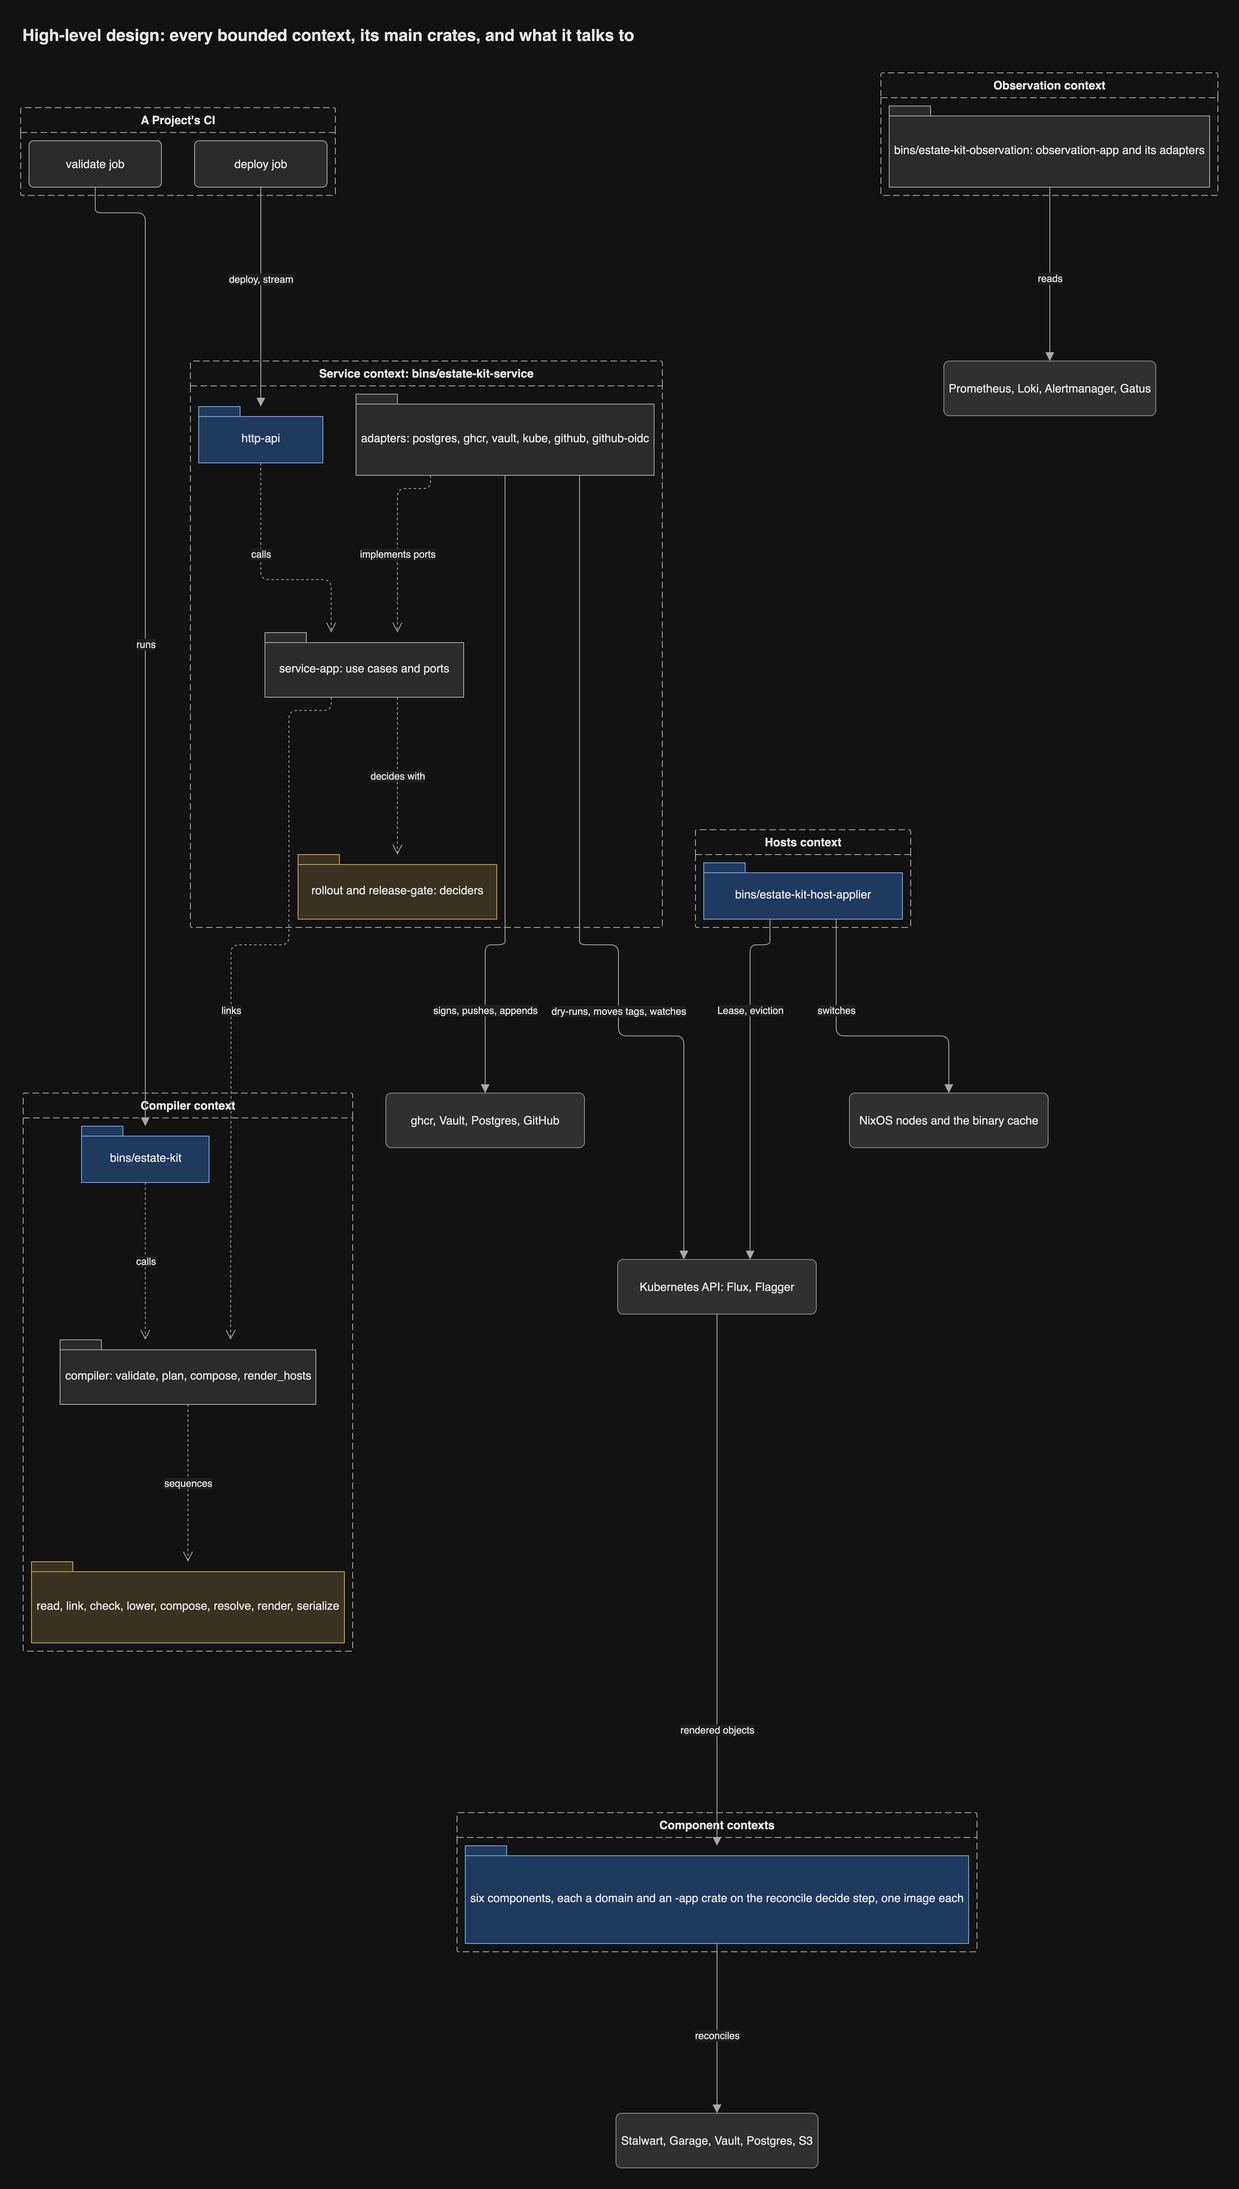
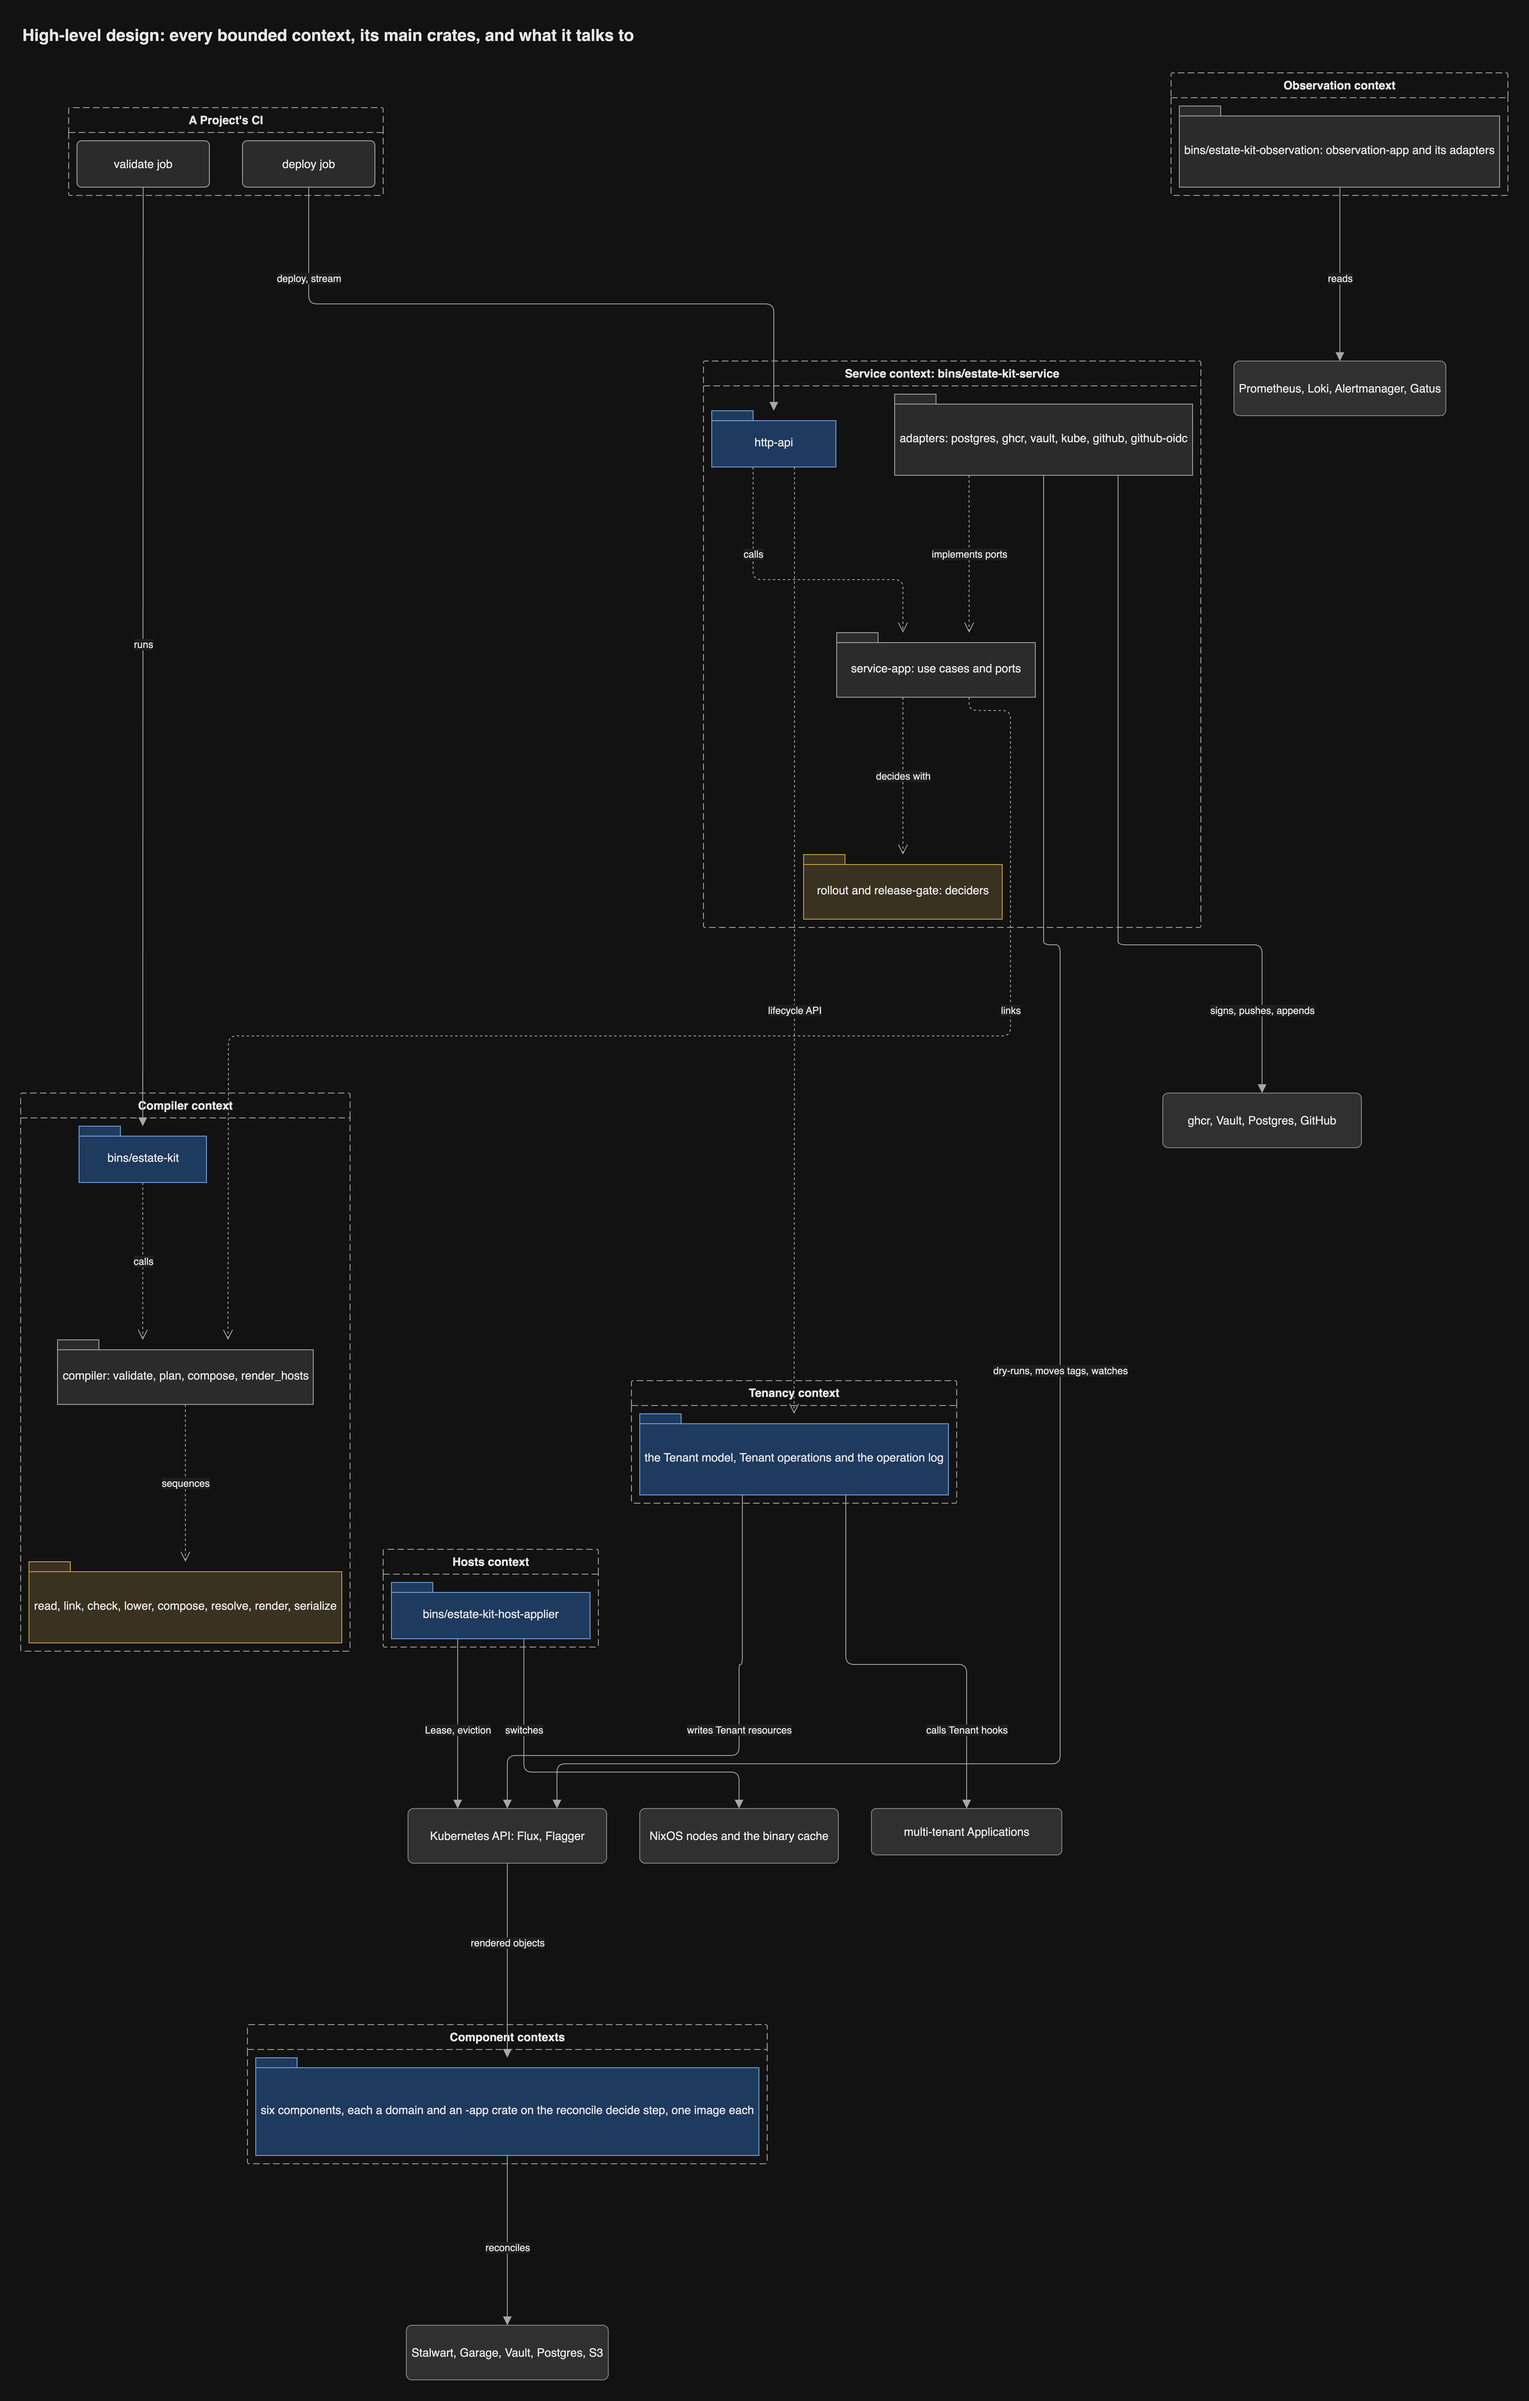
docs: the high-level design and conventions show the tenancy context (#154)

diff --git a/docs/diagrams/specs.py b/docs/diagrams/specs.py
@@ -677,11 +677,14 @@ g.group("hosts", "Hosts context")
 g.package("applier", "bins/estate-kit-host-applier", tone="accent", parent="hosts")
 g.group("comps", "Component contexts")
 g.package("reconcilers", "six components, each a domain and an -app crate on the reconcile decide step, one image each", tone="accent", parent="comps")
+g.group("tenancy", "Tenancy context")
+g.package("tenants", "the Tenant model, Tenant operations and the operation log", tone="accent", parent="tenancy")
 g.box("ext", "ghcr, Vault, Postgres, GitHub", tone="external")
 g.box("k8s", "Kubernetes API: Flux, Flagger", tone="external")
 g.box("telemetry", "Prometheus, Loki, Alertmanager, Gatus", tone="external")
 g.box("nodes", "NixOS nodes and the binary cache", tone="external")
 g.box("targets", "Stalwart, Garage, Vault, Postgres, S3", tone="external")
+g.box("apps", "multi-tenant Applications", tone="external")
 g.edge("validate", "cli", "runs")
 g.edge("cli", "capp", "calls", kind="dashed")
 g.edge("capp", "steps", "sequences", kind="dashed")
@@ -697,6 +700,9 @@ g.edge("k8s", "reconcilers", "rendered objects")
 g.edge("reconcilers", "targets", "reconciles")
 g.edge("applier", "nodes", "switches")
 g.edge("applier", "k8s", "Lease, eviction")
+g.edge("api", "tenants", "lifecycle API", kind="dashed")
+g.edge("tenants", "k8s", "writes Tenant resources")
+g.edge("tenants", "apps", "calls Tenant hooks")
 g.done()
 
 classes("rust-step-read", "Rust: reading, linking and checking, and the phase types between them",

diff --git a/docs/design/high-level-design.md b/docs/design/high-level-design.md
@@ -10,10 +10,13 @@ links to the page that holds the detail. The decisions behind it are
 
 ## 1. The whole system
 
-Five bounded contexts, each a set of crates, and the outside systems each one
+Six bounded contexts, each a set of crates, and the outside systems each one
 talks to. A Project's CI runs the CLI offline and calls the service to deploy;
 the service links the compiler; Flux applies what the service publishes; the
-components and the host applier act on what the compiler renders.
+components and the host applier act on what the compiler renders. The tenancy
+context writes Tenant resources that the components reconcile, and calls the
+Tenant hooks of multi-tenant Applications
+([record 80](../decisions/0080-a-tenant-is-a-custom-resource-in-a-sixth-bounded-context-tenancy.md)).
 
 ![High-level design: every bounded context and what it talks to](../diagrams/png/hld-system.png)
 

diff --git a/docs/design/conventions.md b/docs/design/conventions.md
@@ -51,8 +51,9 @@ within one window was rejected as a service level.
 
 ## Bounded contexts
 
-Five contexts, each boundary its own record
-([record 50](../decisions/0050-five-bounded-contexts.md)), drawn on
+Six contexts, each boundary its own record
+([record 50](../decisions/0050-five-bounded-contexts.md) and
+[record 80](../decisions/0080-a-tenant-is-a-custom-resource-in-a-sixth-bounded-context-tenancy.md)), drawn on
 [The Rust workspace](rust-workspace.md#bounded-contexts). A Project
 is the aggregate root; other Projects refer to it by id only.
 
